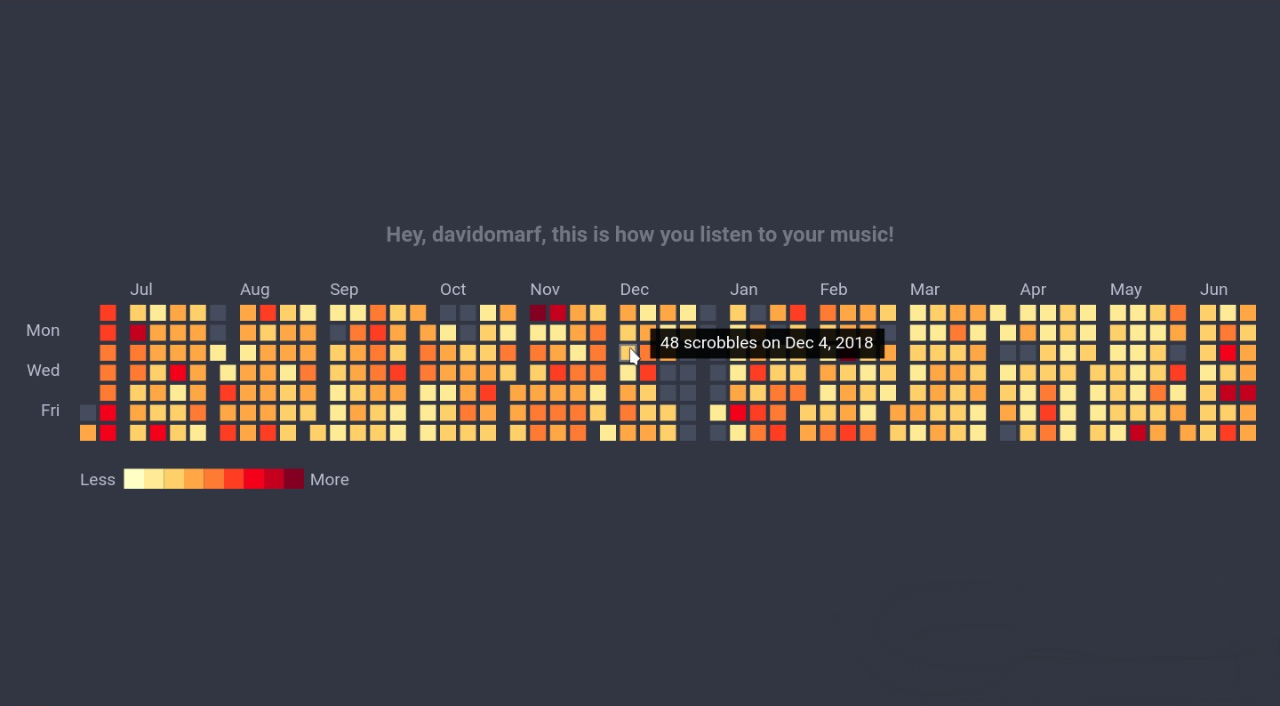
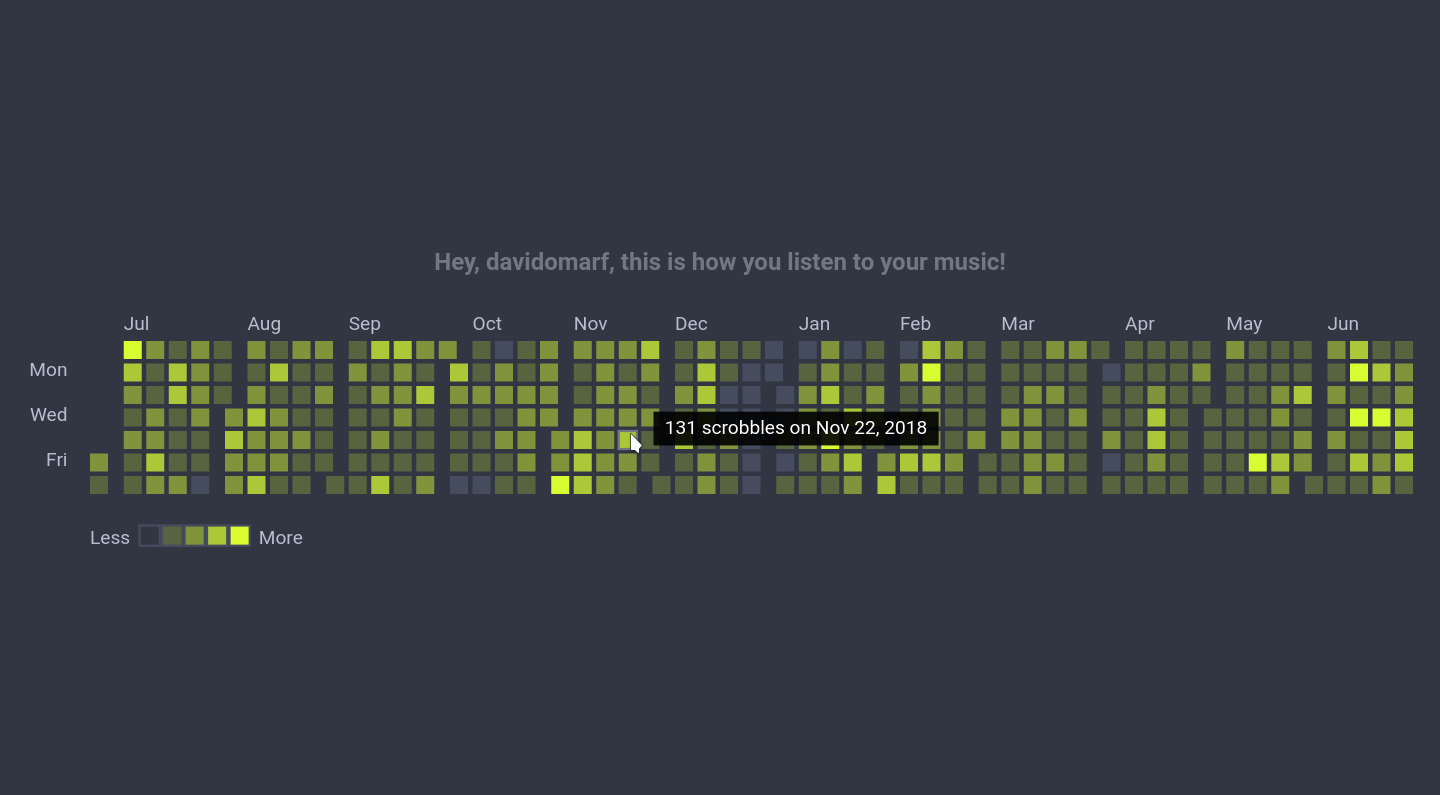
Update Changelog and add new app screenshot

Changed region(s): [[0.0, 0.4051, 1.0, 0.6232], [0.3125, 0.3116, 0.7188, 0.3428], [0.0625, 0.6544, 0.2812, 0.7167]]

diff --git a/CHANGELOG.md b/CHANGELOG.md
@@ -12,10 +12,12 @@ the app functionality.
 
 ## [0.1.1] - 2019-06-29
 ### Changed
-- Draw Heatmap incrementally, updating every time UserPage fetches another page of scrobbles
-- The days in the Heatmap graph, have an id based on the date they display (previously)
-  it was based on the days elapsed since the start of the displayed period.
+- Draw Heatmap incrementally, updating every time UserPage fetches another page of
+scrobbles
+- The Heatmap cells have an id based on the date they display. Previously, it was
+based on the days elapsed since the start of the displayed period.
 - Change the color palete of the Heatmap. 
+- Reduce the number of color tags from 8 to 4.
 
 ### Fixed
 - Tooltip no longer goes offscreen but instead now flips to the left
